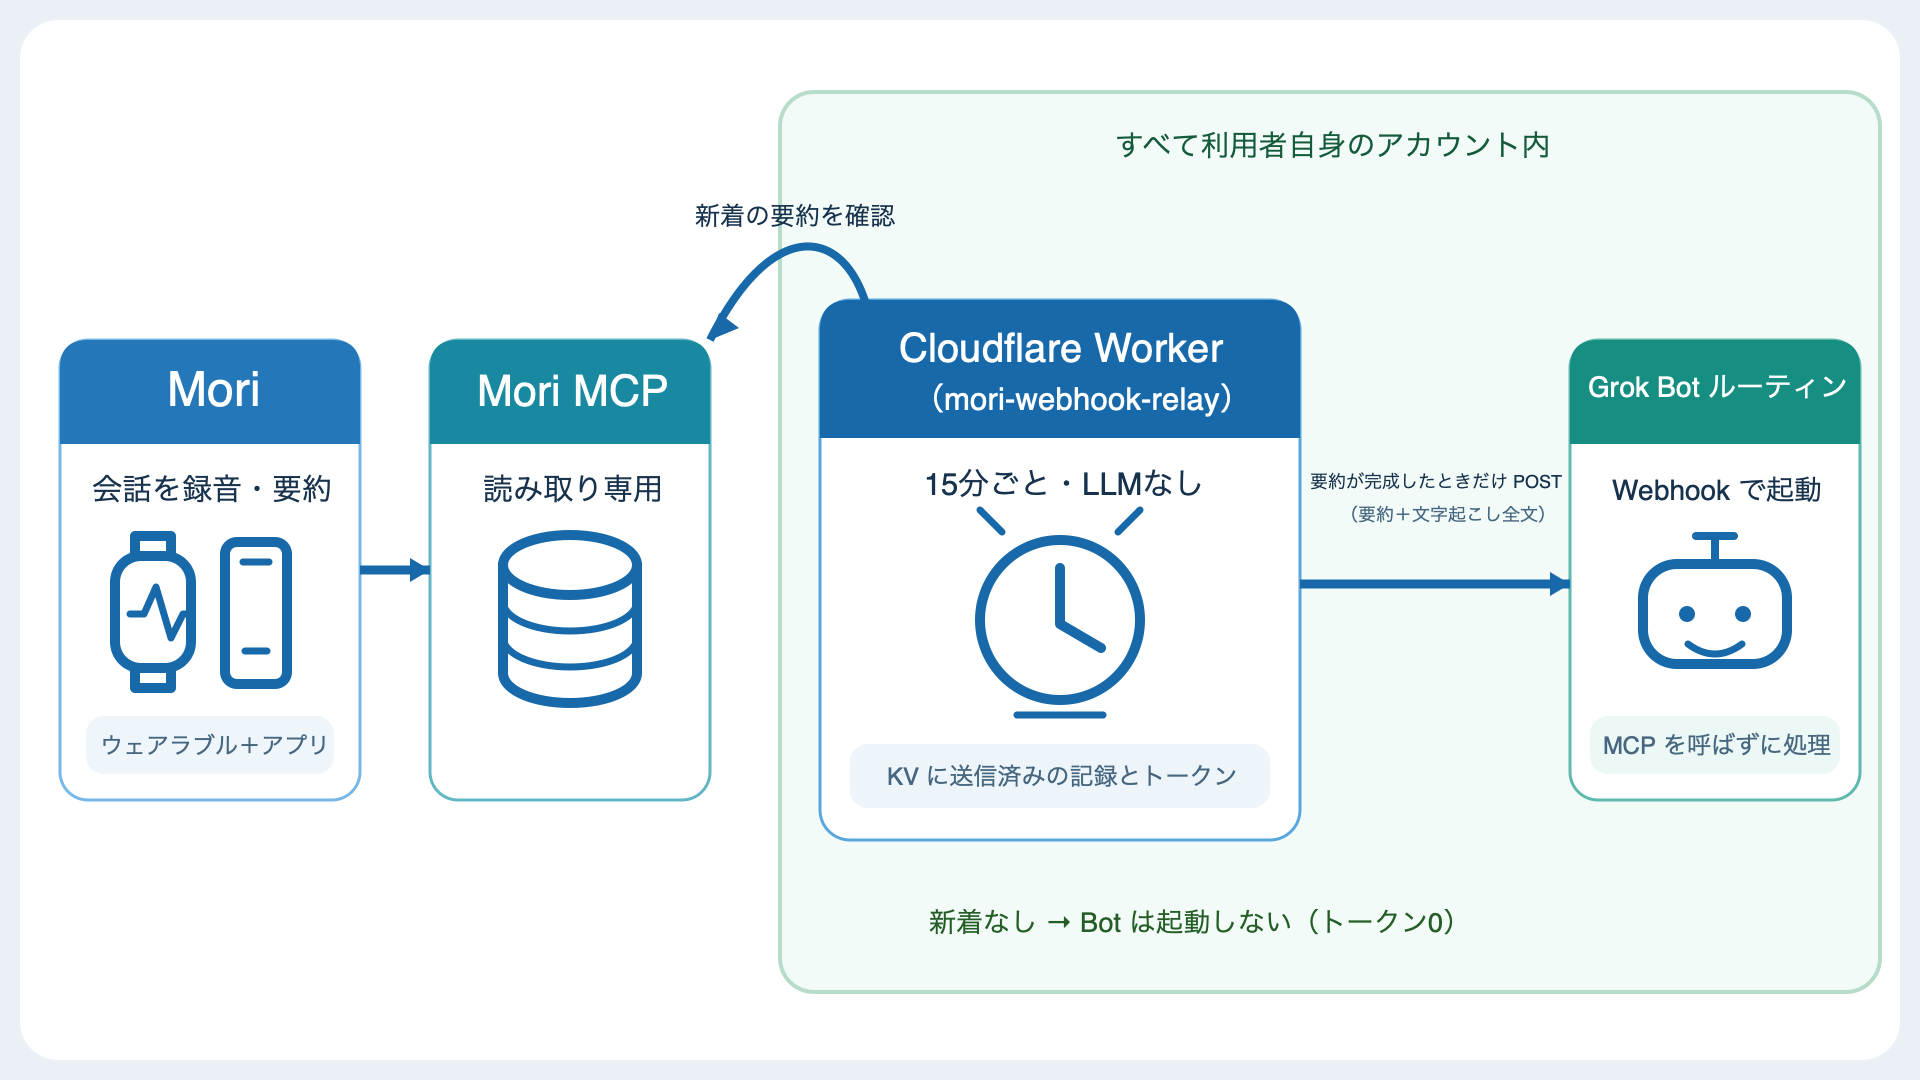
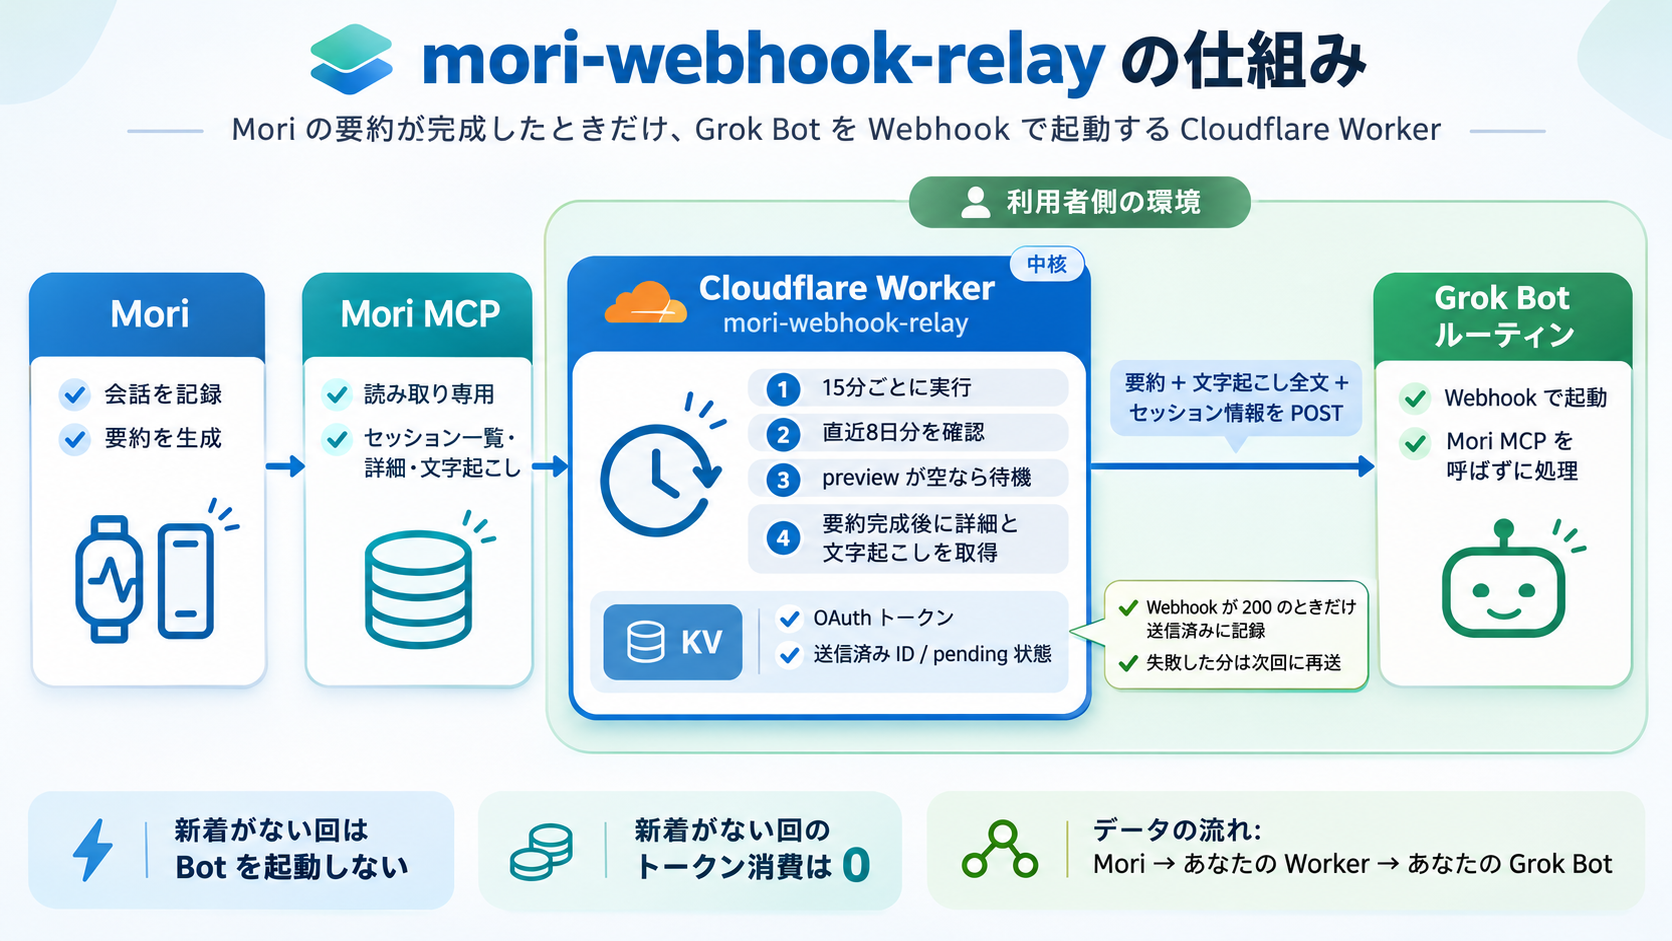
docs: README の概要図を差し替える
Claude-Session: https://claude.ai/code/session_01TfscT56QNd2CxTD9fV5vHD

diff --git a/README.md b/README.md
@@ -17,7 +17,7 @@ mori-webhook-relay は、LLM を使わない小さな Worker が 15 分ごとに
 
 ## 仕組み
 
-![mori-webhook-relay の仕組み: 15 分ごとに Worker が Mori MCP を確認し、要約が完成したときだけ Grok Bot のルーティンを Webhook で起動する](docs/images/overview.png)
+![mori-webhook-relay の仕組み: 15 分ごとに Worker が Mori MCP の直近 8 日分を確認し、要約が完成したときだけ要約と文字起こし全文を Grok Bot のルーティンに Webhook で送る](docs/images/overview.png)
 
 - 一覧の `preview`（要約の冒頭）が空のセッションは、要約がまだなので取得しません。要約ができた回に 1 回だけ送ります
 - 文字起こしは最大 7 日ほど遅れることがあるため、直近 8 日分を見直し続けます
